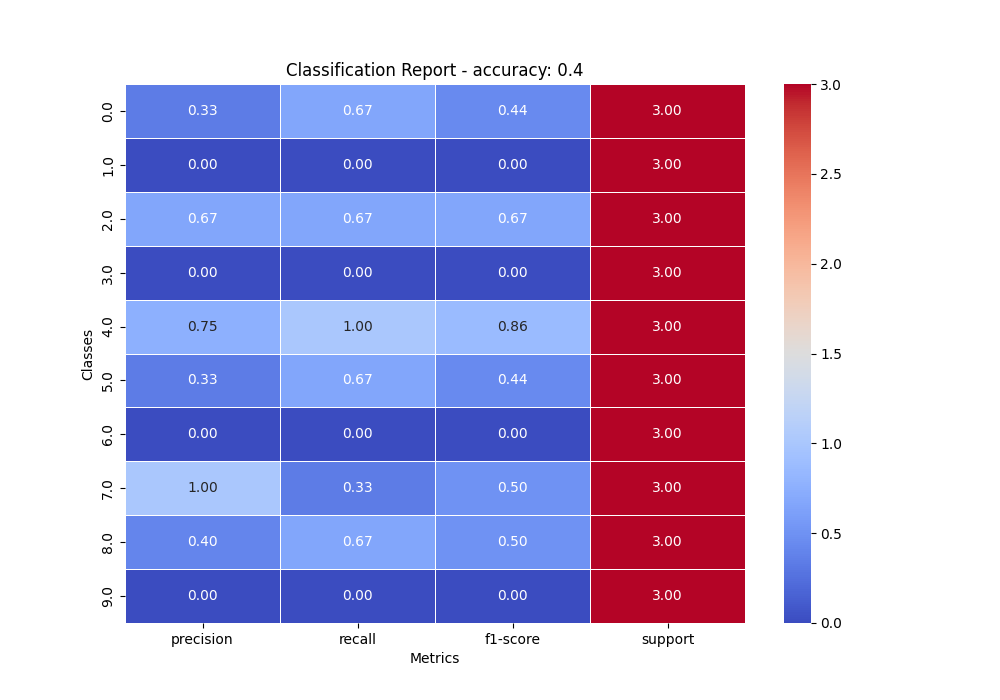
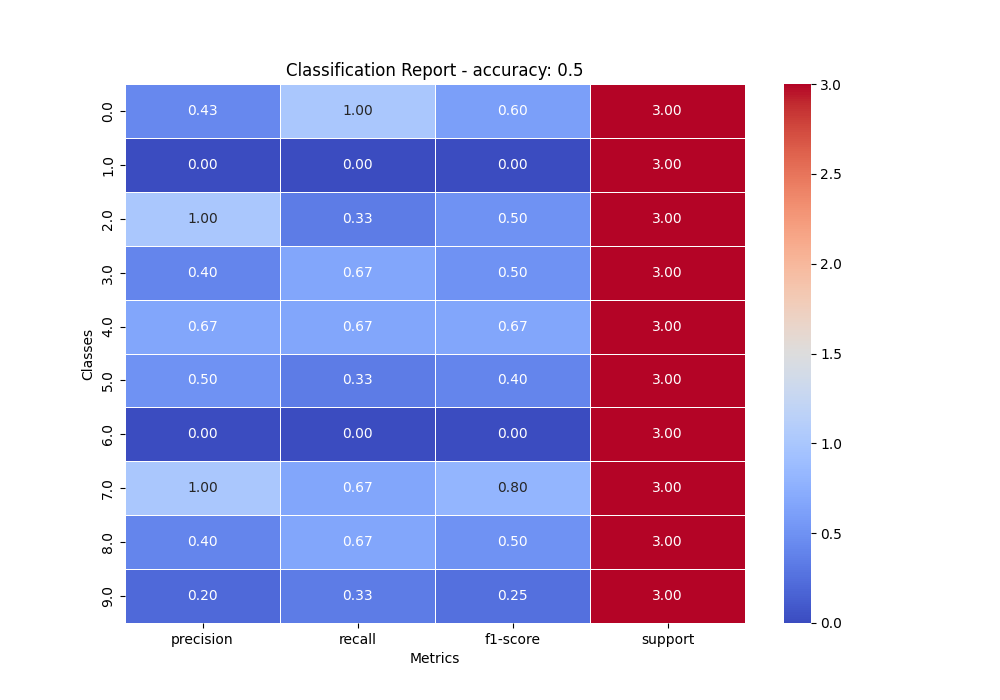
fixed amount of filters 46

diff --git a/Sem4/AI/neural/train_and_metrics.py b/Sem4/AI/neural/train_and_metrics.py
@@ -6,7 +6,7 @@ import matplotlib.pyplot as plt
 from sklearn.metrics import confusion_matrix, classification_report
 from custom_data.process_img import get_imgs
 
-BEST_EPOCHS = 14
+BEST_EPOCHS = 8
 
 np.random.seed(279679)
 tf.random.set_seed(279679)
@@ -45,7 +45,7 @@ report_df = pd.DataFrame(report_dict).T
 report_df = report_df.drop(["accuracy", "macro avg", "weighted avg"], errors="ignore")
 plt.figure(figsize=(10, 7))
 sns.heatmap(report_df, annot=True, cmap="coolwarm", fmt=".2f", linewidths=0.5)
-plt.title(f"Classification Report - accuracy: {accuracy:.1f}")
+plt.title(f"Classification Report - accuracy: {accuracy:.2f}")
 plt.xlabel("Metrics")
 plt.ylabel("Classes")
 plt.savefig(base_file + 'classification_report.png')
@@ -69,7 +69,7 @@ report_df = pd.DataFrame(report_dict).T
 report_df = report_df.drop(["accuracy", "macro avg", "weighted avg"], errors="ignore")
 plt.figure(figsize=(10, 7))
 sns.heatmap(report_df, annot=True, cmap="coolwarm", fmt=".2f", linewidths=0.5)
-plt.title(f"Classification Report - accuracy: {accuracy:.1f}")
+plt.title(f"Classification Report - accuracy: {accuracy:.2f}")
 plt.xlabel("Metrics")
 plt.ylabel("Classes")
 plt.savefig(base_file + 'classification_report.png')

diff --git a/Sem4/AI/neural/compile.py b/Sem4/AI/neural/compile.py
@@ -6,7 +6,7 @@ tf.random.set_seed(279679)
 model = tf.keras.models.Sequential([
 
     # scans image with 32 filters of size 3x3
-    tf.keras.layers.Conv2D(64, (3, 3), activation='relu', input_shape=(28, 28, 1)),
+    tf.keras.layers.Conv2D(32, (3, 3), activation='relu', input_shape=(28, 28, 1)),
 
     # downsamples the image (bochen)
     tf.keras.layers.MaxPooling2D((2, 2)),
